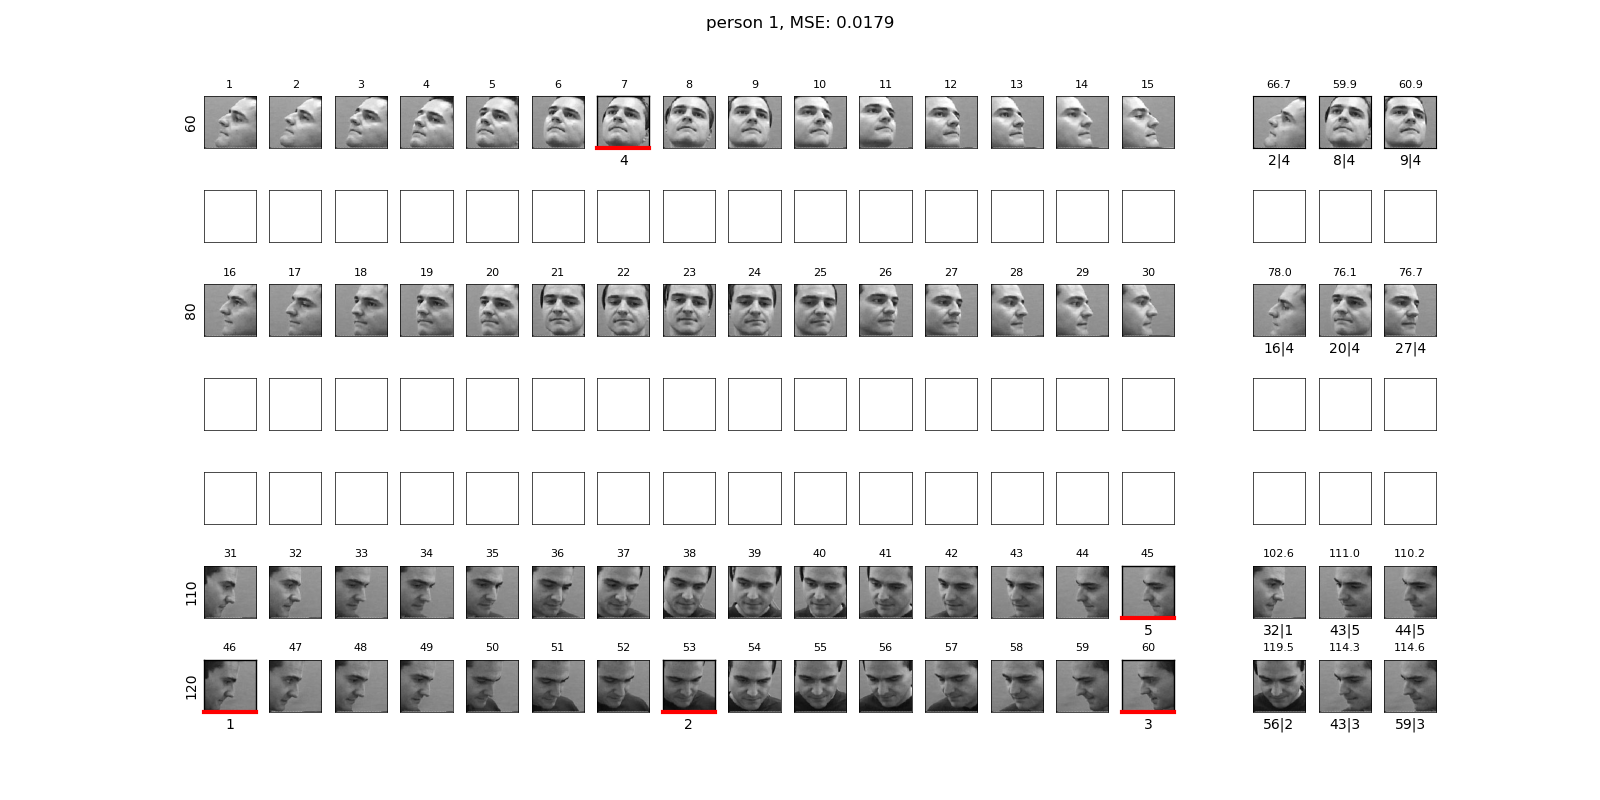
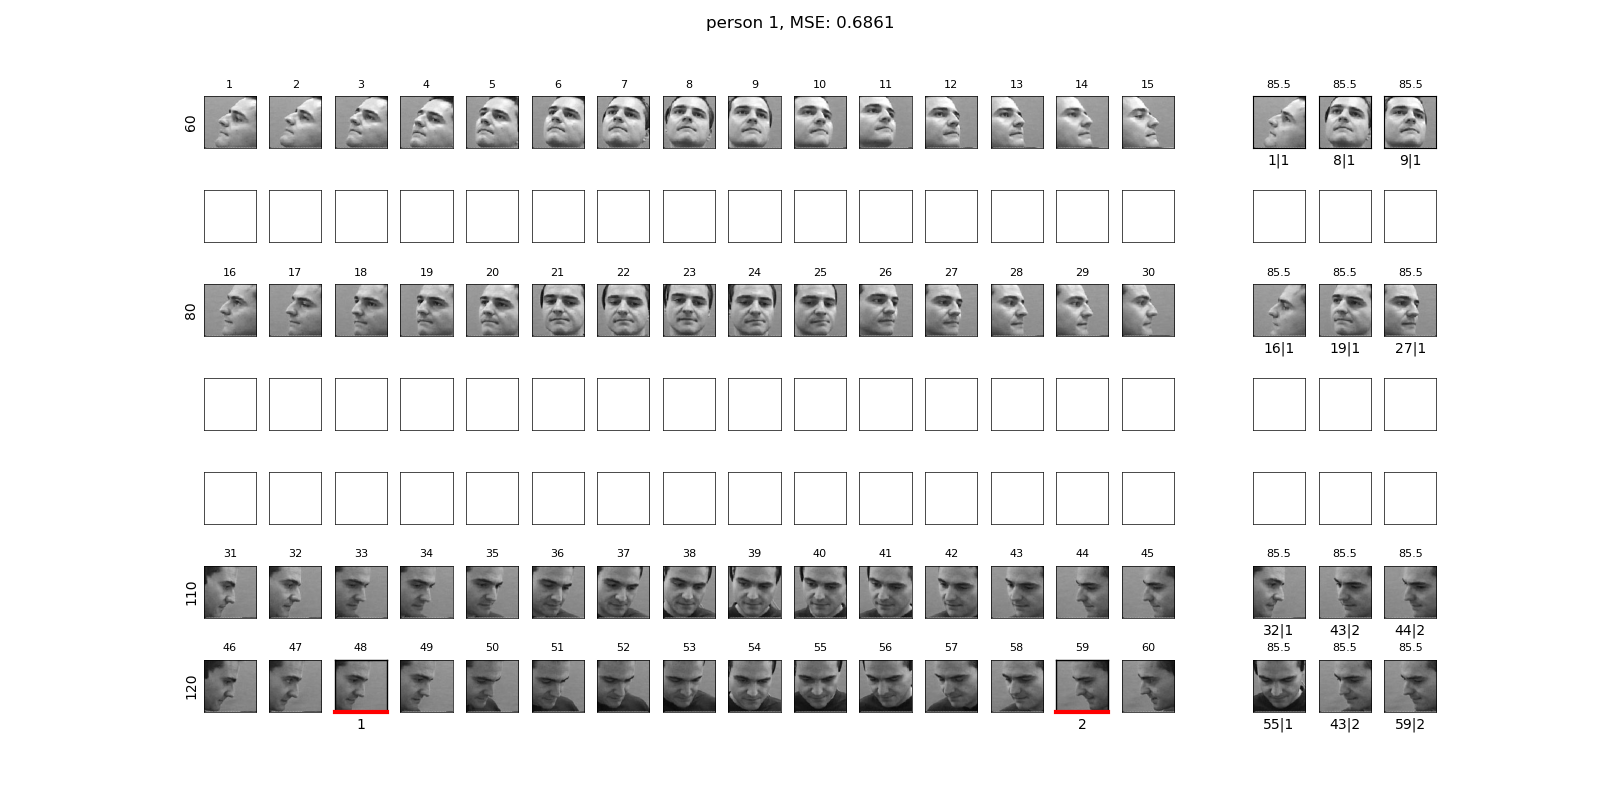
update

diff --git a/Sparse_DKT_FRVM_test_configs.py b/Sparse_DKT_FRVM_test_configs.py
@@ -21,7 +21,7 @@ ax_mll_per_num_ip: plt.Axes = fig_mll_per_num_ip.add_subplot(1, 1, 1)
 
 mll_hist = []
 mse_hist = []
-align_thr = 1e-3
+align_thr = 1e-4
 for i in range(16):
     
     params = parse_args_regression('train_regression')
@@ -31,12 +31,13 @@ for i in range(16):
     torch.backends.cudnn.benchmark = False
 
     params.method = 'Sparse_DKT'
-    params.sparse_method=='FRVM'
+    params.sparse_method='FRVM'
     params.config = f'{i:04b}'
     params.align_thr = align_thr
     params.show_plots_features = True
+    params.n_samples = 72
 
-    print(Fore.CYAN, f'num Inducing points: {params.n_centers}', Fore.RESET)
+    # print(Fore.CYAN, f'num Inducing points: {params.n_centers}', Fore.RESET)
     params.checkpoint_dir = '%scheckpoints/%s/' % (configs.save_dir, params.dataset)
     if not os.path.isdir(params.checkpoint_dir):
         os.makedirs(params.checkpoint_dir)
@@ -94,10 +95,12 @@ for i in range(16):
 
 
     params.method = 'Sparse_DKT'
-    params.sparse_method=='FRVM'
+    params.sparse_method='FRVM'
     params.config = f'{i:04b}'
     params.align_thr = align_thr
     params.show_plots_features = True
+    params.n_support = 60 
+    params.n_samples = 72
 
     params.checkpoint_dir = '%scheckpoints/%s/%s_%s' % (configs.save_dir, params.dataset, params.model, params.method)
     bb           = backbone.Conv3().cuda()
